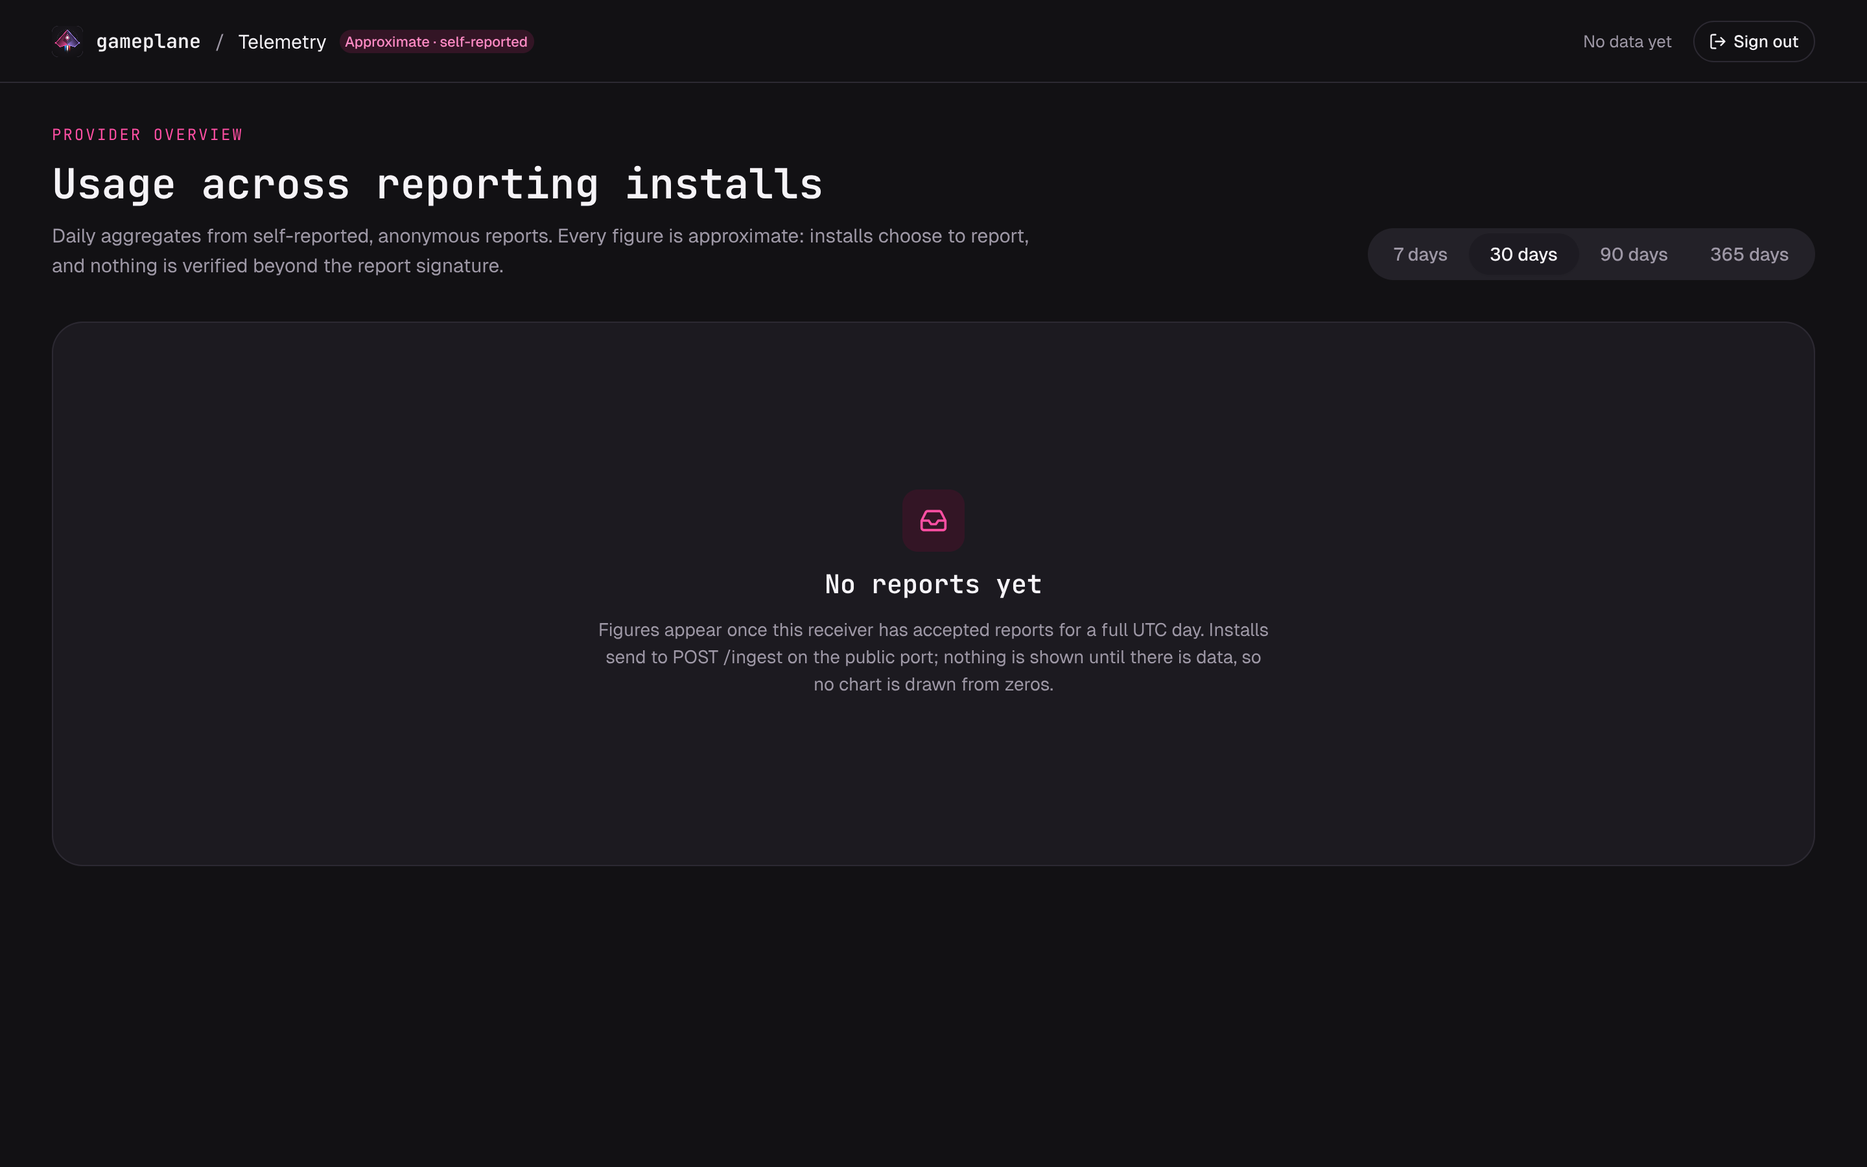
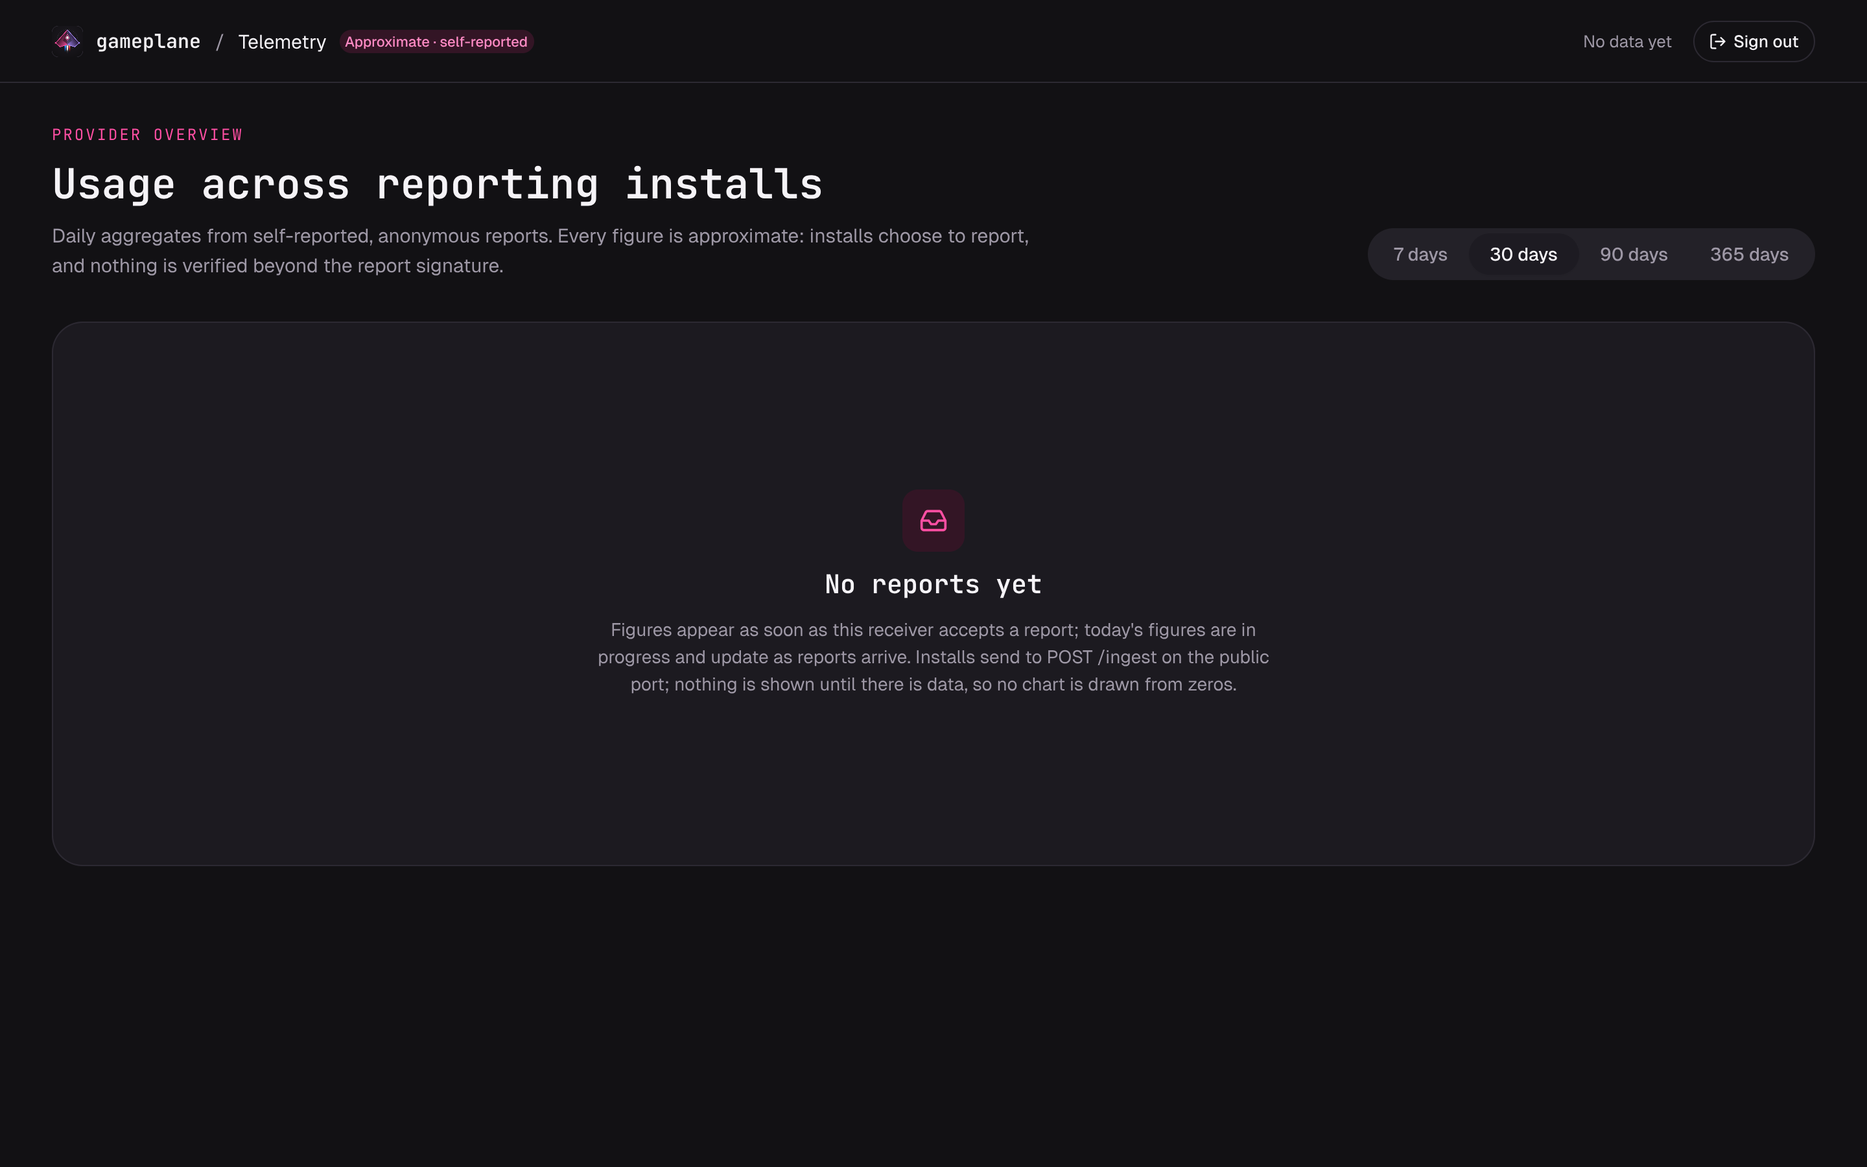
fix(telemetry-receiver): dashboard ranges end on today
The dashboard built every view up to yesterday, the latest complete UTC
day, so a new provider saw "No reports yet" for up to a day after its first
accepted report, and today's reports never showed until the day closed.
Ruled as OD-6 (2026-10-08): the dashboard shows all data.

- views.go: asOf is today (UTC, in progress); every range ends on it.
  Today's lapsed-installs value stays 0 until the lifecycle job finalises
  the day. /v1/summary and the lifecycle rollover are unchanged.
- Copy (designed first in telemetry-dashboard.pen i0xK1E, Z079vK, y49Ie,
  exported): "Data through ... (UTC, today in progress)", "Reports, today",
  "Active installs, today", a new empty-state text, the reports-per-day
  caption and the lapsed note.
- Tests (signed off 2026-10-08): the views, dashboard and population test
  clocks move back one day so every assertion is unchanged; new
  TestBuildViewsIncludesTodayInProgress; the e2e dashboard check expects
  asOf = today.
- Spec 022: data-model, spec, receiver-http contract, tasks (superseded
  notes) and OD-6.

Claude-Session: https://claude.ai/code/session_019f17vxYJKVGNFSgucHnuhu

Changed region(s): [[0.3125, 0.5289, 0.6875, 0.5911]]

diff --git a/telemetry-receiver/web/overview.html b/telemetry-receiver/web/overview.html
@@ -14,7 +14,7 @@
 {{if .Empty}}
 <section class="card empty">
 <h2 class="card-title">No reports yet</h2>
-<p class="muted">Figures appear once this receiver has accepted reports for a full UTC day. Installs send to POST /ingest on the public port; nothing is shown until there is data, so no chart is drawn from zeros.</p>
+<p class="muted">Figures appear as soon as this receiver accepts a report; today's figures are in progress and update as reports arrive. Installs send to POST /ingest on the public port; nothing is shown until there is data, so no chart is drawn from zeros.</p>
 </section>
 {{else}}
 {{with .Basic}}
@@ -22,13 +22,13 @@
 <h2 class="section-title" id="basic-h">Basic reports</h2>
 <p class="muted">Version, server count and template count from every report, basic or extended.</p>
 <div class="kpis kpis-4">
-<div class="card tile"><p class="tile-label">Reports, latest day</p><p class="tile-value">{{num $.LatestReports}}</p><p class="tile-sub">{{$.AsOf}} (UTC)</p></div>
+<div class="card tile"><p class="tile-label">Reports, today</p><p class="tile-value">{{num $.LatestReports}}</p><p class="tile-sub">{{$.AsOf}} (UTC, in progress)</p></div>
 <div class="card tile"><p class="tile-label">Reports, last {{$.Range}} days</p><p class="tile-value">{{num $.RangeReports}}</p><p class="tile-sub">Accepted reports</p></div>
 <div class="card tile"><p class="tile-label">Reports since collection began</p><p class="tile-value">{{num $.ReportsTotal}}</p><p class="tile-sub">{{if $.Since}}Since {{$.Since}}{{end}}</p></div>
 <div class="card tile"><p class="tile-label">Median servers per install</p><p class="tile-value">{{.Fleet.Servers.Median}}</p><p class="tile-sub">Last {{$.Range}} days</p></div>
 </div>
 <figure class="card chart-card">
-<figcaption class="card-head"><span><span class="card-title">Reports per day</span><span class="muted block">Accepted reports per UTC day, last {{$.Range}} days</span></span>
+<figcaption class="card-head"><span><span class="card-title">Reports per day</span><span class="muted block">Accepted reports per UTC day, last {{$.Range}} days, ending today (in progress)</span></span>
 {{if $.Table}}<a class="link" href="{{$.ChartHref}}">View as chart</a>{{else}}<a class="link" href="{{$.TableHref}}">View as table</a>{{end}}</figcaption>
 {{template "columns" $.PerDay}}
 </figure>

diff --git a/telemetry-receiver/web/overview_extended.html b/telemetry-receiver/web/overview_extended.html
@@ -17,7 +17,7 @@
 </div>
 {{if .Extended}}{{with .Ext}}
 <div class="kpis kpis-5">
-<div class="card tile"><p class="tile-label">Active installs, latest day</p><p class="tile-value">{{num $.Extended.Installs.Active1d}}</p><p class="tile-sub">{{$.AsOf}} (UTC)</p></div>
+<div class="card tile"><p class="tile-label">Active installs, today</p><p class="tile-value">{{num $.Extended.Installs.Active1d}}</p><p class="tile-sub">{{$.AsOf}} (UTC, in progress)</p></div>
 <div class="card tile"><p class="tile-label">Active, last 7 days</p><p class="tile-value">{{num $.Extended.Installs.Active7d}}</p><p class="tile-sub">Unique installs</p></div>
 <div class="card tile"><p class="tile-label">Active, last 30 days</p><p class="tile-value">{{num $.Extended.Installs.Active30d}}</p><p class="tile-sub">Unique installs</p></div>
 <div class="card tile"><p class="tile-label">New installs, last {{$.Range}} days</p><p class="tile-value">{{num .NewTotal}}</p><p class="tile-sub">First report in range</p></div>
@@ -29,7 +29,7 @@
 {{template "columns" .New}}
 </figure>
 <figure class="card chart-card">
-<figcaption class="card-head"><span><span class="card-title">Lapsed installs per day</span><span class="muted block">Installs whose last report was 30 days earlier</span></span></figcaption>
+<figcaption class="card-head"><span><span class="card-title">Lapsed installs per day</span><span class="muted block">Installs whose last report was 30 days earlier. Today's bar is final after the UTC day closes.</span></span></figcaption>
 {{template "columns" .Lapsed}}
 </figure>
 </div>

diff --git a/telemetry-receiver/web/layout.html b/telemetry-receiver/web/layout.html
@@ -24,7 +24,7 @@
 {{if .Empty}}<span class="pill">No data yet</span>{{else}}<span class="pill">Approximate &middot; self-reported</span>{{end}}
 </div>
 <div class="topbar-end">
-{{if not .Empty}}<span class="asof">Data through {{.AsOf}} (UTC)</span>{{end}}
+{{if not .Empty}}<span class="asof">Data through {{.AsOf}} (UTC, today in progress)</span>{{end}}
 <form method="post" action="/logout"><button type="submit" class="btn btn-quiet">Sign out</button></form>
 </div>
 </header>

diff --git a/telemetry-receiver/views_test.go b/telemetry-receiver/views_test.go
@@ -10,13 +10,12 @@ import (
 	"time"
 )
 
-// viewsNow is the clock of the views tests: the latest complete day (asOf)
-// is 2026-10-06.
-var viewsNow = time.Date(2026, 10, 7, 12, 0, 0, 0, time.UTC)
+// viewsNow is the clock of the views tests: today (asOf) is 2026-10-06.
+var viewsNow = time.Date(2026, 10, 6, 12, 0, 0, 0, time.UTC)
 
-// viewsDay returns the day offset days before asOf (2026-10-06).
+// viewsDay returns the day offset days before asOf (2026-10-06, today).
 func viewsDay(offset int) string {
-	return dayString(viewsNow.AddDate(0, 0, -1-offset))
+	return dayString(viewsNow.AddDate(0, 0, -offset))
 }
 
 // seedViews writes a synthetic multi-day dataset. Reports sit at 0, 3, 10,
@@ -156,6 +155,37 @@ func TestBuildViewsReportsPerDayIsDense(t *testing.T) {
 	}
 }
 
+// TestBuildViewsIncludesTodayInProgress proves that the range ends on today
+// (UTC, in progress): a report accepted today is the last reportsPerDay
+// entry, leaves the empty state, and its totals are the latest-day row.
+func TestBuildViewsIncludesTodayInProgress(t *testing.T) {
+	st := openTestStore(t.Context(), t, config{})
+	ctx := context.Background()
+	today := dayString(viewsNow)
+	for range 2 {
+		if err := st.recordBasic(ctx, today, "1.0.0", 4, 9); err != nil {
+			t.Fatal(err)
+		}
+	}
+	v, err := BuildViews(ctx, st, 7, viewsNow)
+	if err != nil {
+		t.Fatalf("BuildViews: %v", err)
+	}
+	if v.Empty || v.Basic == nil {
+		t.Fatalf("empty = %v with reports accepted today, want the populated view", v.Empty)
+	}
+	if v.AsOf != today {
+		t.Fatalf("asOf = %s, want today %s", v.AsOf, today)
+	}
+	days := v.Basic.ReportsPerDay
+	if last := days[len(days)-1]; last.Day != today || last.Reports != 2 {
+		t.Fatalf("last reportsPerDay entry = %+v, want %s with 2 reports", last, today)
+	}
+	if want := (LatestDayRow{ServersTotal: 8, TemplatesTotal: 18}); v.Basic.LatestDay != want {
+		t.Fatalf("latestDay = %+v, want %+v (today's totals)", v.Basic.LatestDay, want)
+	}
+}
+
 func TestBuildViewsInvalidRangeFallsBackTo30(t *testing.T) {
 	st := openTestStore(t.Context(), t, config{})
 	seedViews(t, st)
@@ -185,8 +215,8 @@ func TestBuildViewsEmptyState(t *testing.T) {
 		}
 	}
 	check("empty store")
-	// Reports from today (not yet a complete day) and from beyond the
-	// widest range do not leave the empty state.
+	// Reports from tomorrow (after asOf) and from beyond the widest range do
+	// not leave the empty state; today's do (TestBuildViewsIncludesTodayInProgress).
 	if err := st.recordBasic(context.Background(), "2026-10-07", "1.0.0", 1, 1); err != nil {
 		t.Fatal(err)
 	}

diff --git a/test/e2e/telemetry_e2e_test.go b/test/e2e/telemetry_e2e_test.go
@@ -245,9 +245,9 @@ func TestTelemetryLifecycle(t *testing.T) {
 		if v.Preview == nil {
 			t.Fatal("no preview while basic is on")
 		}
-		// Views end at yesterday, so the receiver's same-day record is read
-		// from its fleet histograms and version label: the next report's
-		// servers and templates must equal the preview's.
+		// The receiver's record of the next report is read from its fleet
+		// histograms and version label: the report's servers and templates
+		// must equal the preview's.
 		serversCount0 := rx.get(ctx, t, "gameplane_telemetry_servers_count", "")
 		serversSum0 := rx.get(ctx, t, "gameplane_telemetry_servers_sum", "")
 		templatesSum0 := rx.get(ctx, t, "gameplane_telemetry_templates_sum", "")
@@ -393,9 +393,9 @@ func TestTelemetryLifecycle(t *testing.T) {
 
 	t.Run("dashboard_shows_reports", func(t *testing.T) {
 		cookie := dashboardLogin(ctx, t, metricsPort, telemetryDashToken)
-		before := time.Now().UTC().AddDate(0, 0, -1).Format("2006-01-02")
+		before := time.Now().UTC().Format("2006-01-02")
 		resp, body := dashboardRequest(ctx, t, metricsPort, http.MethodGet, "/api/v1/views", map[string]string{"Cookie": cookie}, nil)
-		after := time.Now().UTC().AddDate(0, 0, -1).Format("2006-01-02")
+		after := time.Now().UTC().Format("2006-01-02")
 		if resp.StatusCode != http.StatusOK {
 			t.Fatalf("GET /api/v1/views with the session = %d: %s", resp.StatusCode, body)
 		}
@@ -411,7 +411,7 @@ func TestTelemetryLifecycle(t *testing.T) {
 		var asOf string
 		var empty bool
 		if json.Unmarshal(views["asOf"], &asOf) != nil || (asOf != before && asOf != after) {
-			t.Fatalf("asOf = %s, want yesterday (UTC), %s: views end at the last complete day", views["asOf"], after)
+			t.Fatalf("asOf = %s, want today (UTC), %s: views end on the current day (OD-6)", views["asOf"], after)
 		}
 		if json.Unmarshal(views["empty"], &empty) != nil || (empty != (string(views["basic"]) == "null")) {
 			t.Fatalf("empty = %s with basic = %s, want basic null exactly when empty", views["empty"], views["basic"])

diff --git a/telemetry-receiver/views.go b/telemetry-receiver/views.go
@@ -175,12 +175,12 @@ func normalizeRange(days int) int {
 }
 
 // BuildViews computes the basic dashboard views over the rangeDays ending
-// on the latest complete UTC day, which is yesterday relative to now. An
+// on today, the current UTC day, which is still in progress (OD-6). An
 // invalid rangeDays falls back to 30. When no daily_basic row exists in the
 // range the result is the empty state: Empty is true and Basic is nil.
 func BuildViews(ctx context.Context, st *store, rangeDays int, now time.Time) (Views, error) {
 	rangeDays = normalizeRange(rangeDays)
-	asOf := now.UTC().Truncate(24*time.Hour).AddDate(0, 0, -1)
+	asOf := now.UTC().Truncate(24 * time.Hour)
 	from := asOf.AddDate(0, 0, 1-rangeDays)
 	v := Views{Range: rangeDays, AsOf: dayString(asOf)}
 	fromDay, toDay := dayString(from), dayString(asOf)
@@ -383,7 +383,7 @@ func fleetMedian(hist []fleetPoint) float64 {
 }
 
 // buildExtended computes the extended block over [from, to], the rangeDays
-// ending on the latest complete day. basicReports is the sum of daily_basic
+// ending on today (in progress). basicReports is the sum of daily_basic
 // reports over the same range. It returns nil when the range has no extended
 // reports.
 func buildExtended(ctx context.Context, st *store, rangeDays int, from, to string, basicReports int64) (*ExtendedViews, error) {

diff --git a/telemetry-receiver/population_test.go b/telemetry-receiver/population_test.go
@@ -178,7 +178,7 @@ func TestPopulationProducesExactNewLapsedAndActiveCounts(t *testing.T) {
 
 	// The views at the end of day 59: active counts and the 30-day unique
 	// count (SC-008 allows 1%; the distinct count is exact).
-	*clock = popDay(popDays).Add(12 * time.Hour)
+	*clock = popDay(popDays - 1).Add(12 * time.Hour) // today (asOf) is day 59
 	v, err := BuildViews(ctx, st, 30, *clock)
 	if err != nil {
 		t.Fatalf("BuildViews: %v", err)
@@ -341,7 +341,7 @@ func TestBuildViewsExtendedSharesGamesAndFeatures(t *testing.T) {
 			t.Fatalf("status = %d (%s)", w.Code, w.Body)
 		}
 	}
-	*clock = extStart.Add(24 * time.Hour) // asOf is 2026-10-07
+	*clock = extStart.Add(24 * time.Hour) // asOf is 2026-10-08 (today); the reports are on 2026-10-07
 	v, err := BuildViews(ctx, s.store, 7, *clock)
 	if err != nil {
 		t.Fatal(err)

diff --git a/telemetry-receiver/dashboard_test.go b/telemetry-receiver/dashboard_test.go
@@ -17,7 +17,7 @@ const (
 	dashOrigin = "http://example.com" // httptest.NewRequest uses Host example.com
 )
 
-var dashNow = time.Date(2026, 10, 7, 12, 0, 0, 0, time.UTC)
+var dashNow = time.Date(2026, 10, 6, 12, 0, 0, 0, time.UTC)
 
 // newDash builds a receiver with a fixed clock and returns it with its
 // dashboard handler.
@@ -31,8 +31,8 @@ func newDash(t *testing.T, cfg config) (*server, http.Handler) {
 	return s, s.dashboardRoutes()
 }
 
-// seedDash stores reports on the latest complete day (2026-10-06) and the
-// day before it.
+// seedDash stores reports on today (2026-10-06, the as-of day) and the day
+// before it.
 func seedDash(t *testing.T, s *server) {
 	t.Helper()
 	for _, r := range []struct {

diff --git a/telemetry-receiver/charts_test.go b/telemetry-receiver/charts_test.go
@@ -109,7 +109,7 @@ func TestDayLabelEvery(t *testing.T) {
 }
 
 // seedExtendedDash stores one basic report and two extended reports on the
-// latest complete day (2026-10-06) of a dashboard test server.
+// day before today (2026-10-05) of a dashboard test server, inside every range.
 func seedExtendedDash(t *testing.T, s *server) {
 	t.Helper()
 	s.now = func() time.Time { return dashNow.Add(-24 * time.Hour) }

diff --git a/specs/022-default-telemetry-dashboard/tasks.md b/specs/022-default-telemetry-dashboard/tasks.md
@@ -361,7 +361,7 @@ description: "Task list for feature 022: default telemetry destination, extended
   - fleet bands and the exact median
   - `latestDay` totals
   - `empty`
-  - `asOf` = yesterday (UTC)
+  - `asOf` = yesterday (UTC). **Superseded 2026-10-08 (OD-6):** the dashboard ends on today (UTC, in progress); `/v1/summary` keeps yesterday.
 
   Invalid ranges fall back to 30.
 - [X] T066 [US4] Load the `dataviz` skill, then design the receiver pages in `telemetry-receiver/telemetry-dashboard.pen` (seeded with a copy of the HeroUI design, spec Q10) through Pencil MCP: the login page (also used for the refusal, with "Invalid credentials"), the overview's basic section with the range selector (7, 30, 90, 365), the empty state, and the "approximate, self-reported" labelling (FR-026). Ask the user to open that file, then save it, run `design-export` into `telemetry-receiver/design-export/`, and commit.
@@ -397,7 +397,7 @@ description: "Task list for feature 022: default telemetry destination, extended
   - `GET /metrics` returns `404` on the public listener, `401` on the dashboard listener without the Bearer token, and `200` with it
 - [X] T071 [US4] Add these subtests to `test/e2e/telemetry_e2e_test.go`:
   - `dashboard_refuses_unauthenticated`, where `/` returns 303 to a login page that contains no digits from the data and `/api/v1/views` returns 401
-  - `dashboard_shows_reports`, which signs in with the Secret's token through `Env.PortForward` on 8081 (setting the `Cookie` header by hand, since the session cookie is `Secure` and the port-forward is plain HTTP). Views end at yesterday (UTC), so same-day reports from earlier subtests are not in them: it asserts that `/api/v1/views` returns `200` with `asOf` = yesterday and a well-formed body, and that `/metrics` (Bearer) counts the earlier reports. The exact figures are covered by `views_test.go`.
+  - `dashboard_shows_reports`, which signs in with the Secret's token through `Env.PortForward` on 8081 (setting the `Cookie` header by hand, since the session cookie is `Secure` and the port-forward is plain HTTP). Views end at yesterday (UTC), so same-day reports from earlier subtests are not in them: it asserts that `/api/v1/views` returns `200` with `asOf` = yesterday (**superseded 2026-10-08, OD-6:** views end on today and the check asserts `asOf` = today) and a well-formed body, and that `/metrics` (Bearer) counts the earlier reports. The exact figures are covered by `views_test.go`.
 
 **Checkpoint**: the provider keeps history and shows basic views privately.
 

diff --git a/specs/022-default-telemetry-dashboard/data-model.md b/specs/022-default-telemetry-dashboard/data-model.md
@@ -224,14 +224,14 @@ Every `value` is a `telemetryschema` enumeration member or `other`, so the row c
 
 ### Derived views (computed at read time, [contracts/receiver-http.md](contracts/receiver-http.md))
 
-The range R is 7, 30, 90 or 365 days and ends on the latest complete day.
+The range R is 7, 30, 90 or 365 days and ends on today, the current UTC day, which is still in progress (OD-6). Today's figures change until the day closes, and its lapsed-installs value stays 0 until the lifecycle job finalises the day.
 
 | View | Computation |
 |---|---|
 | Reports per day | `daily_basic.reports` series over R |
 | Version adoption (reports) | `daily_version` summed over R. Top 10 by count, then `Other` (the rest) and `Invalid`. |
 | Fleet distribution and median | `daily_fleet` summed over R. Bands `0,1,2,5,10,25,50,100,250,250+` are applied at read. The exact median comes from the cumulative counts. |
-| Latest-day totals | `daily_basic.servers_sum`, `templates_sum` for the latest complete day |
+| Latest-day totals | `daily_basic.servers_sum`, `templates_sum` for today (the as-of day, in progress) |
 | Unique active installs | `count(activity where last_seen ≥ asOf − {0, 6, 29})` |
 | New and lapsed installs | `daily_ext.new_installs` and `lapsed_installs` series over R |
 | Version adoption (installs) | `activity.last_version` for records with `last_seen` inside `min(R, ACTIVITY_EXPIRY_DAYS)`. The window used is shown. |
@@ -239,4 +239,4 @@ The range R is 7, 30, 90 or 365 days and ends on the latest complete day.
 | Extended coverage (FR-026) | Σ `ext_reports` ÷ Σ `reports` over R |
 | Public summary (FR-029) | `reports` for asOf; Σ `reports` over the 30 days ending asOf; `meta.reports_total`; `count(activity where last_seen ≥ asOf − 29)`; `asOf` |
 
-`asOf` is the latest complete UTC day, which is yesterday. When no `daily_basic` row exists in R, every view returns its empty state instead of zeros (FR-027).
+For the dashboard, `asOf` is today (the current UTC day, in progress); the public summary keeps the latest complete day. When no `daily_basic` row exists in R, every view returns its empty state instead of zeros (FR-027).

diff --git a/telemetry-receiver/specs.md b/telemetry-receiver/specs.md
@@ -18,7 +18,7 @@ Optional collector for the usage telemetry that Gameplane installs report daily.
 - **Proof-of-work (optional)**: with `INGEST_POW=true`, `/ingest` requires a solved challenge from `/v1/challenge` before the body is read; difficulty adapts to the challenge rate
 - **Aggregation and storage**: daily aggregates and expiring per-install activity records in SQLite (`$DATA_DIR/telemetry.db`); an install ID is stored only as `HMAC-SHA256(pepper, installID)`
 - **Per-source limits**: accepted reports per source per UTC day (`INGEST_SOURCE_DAILY_LIMIT`), login attempts, summary reads and challenge requests, all held in memory; source addresses come from the TCP peer, or from `X-Forwarded-For` only when the peer is inside `TRUSTED_PROXY_CIDRS`
-- **Dashboard**: server-rendered HTML with inline SVG charts and no JavaScript, behind one operator token; the same view model is served as JSON at `/api/v1/views`
+- **Dashboard**: server-rendered HTML with inline SVG charts and no JavaScript, behind one operator token; the same view model is served as JSON at `/api/v1/views`. Every range ends on today (UTC), which is still in progress
 - **Public summary (optional)**: `GET /v1/summary` returns five counts when `PUBLIC_SUMMARY=true`
 - **Version sanitization**: invalid syntax is bucketed as `"invalid"`. Retain at most 128 distinct strings matching `^[A-Za-z0-9][A-Za-z0-9._+-]{0,31}$` per process for the Prometheus label; additional versions share `"other"`. The two bucket names are reserved, for at most 130 series. Retained labels are never evicted; restart resets the budget with the counters.
 - **Metrics**: Prometheus series on the dashboard listener only, behind the token
